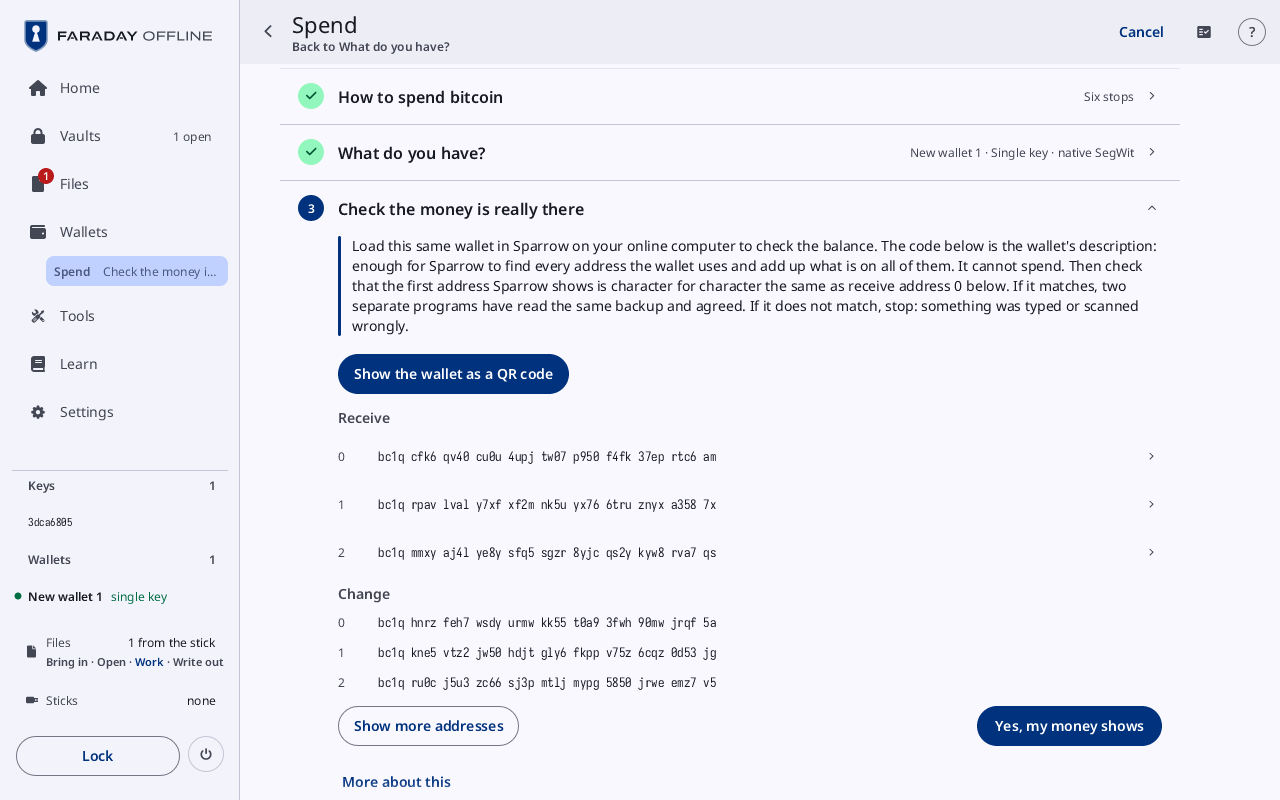
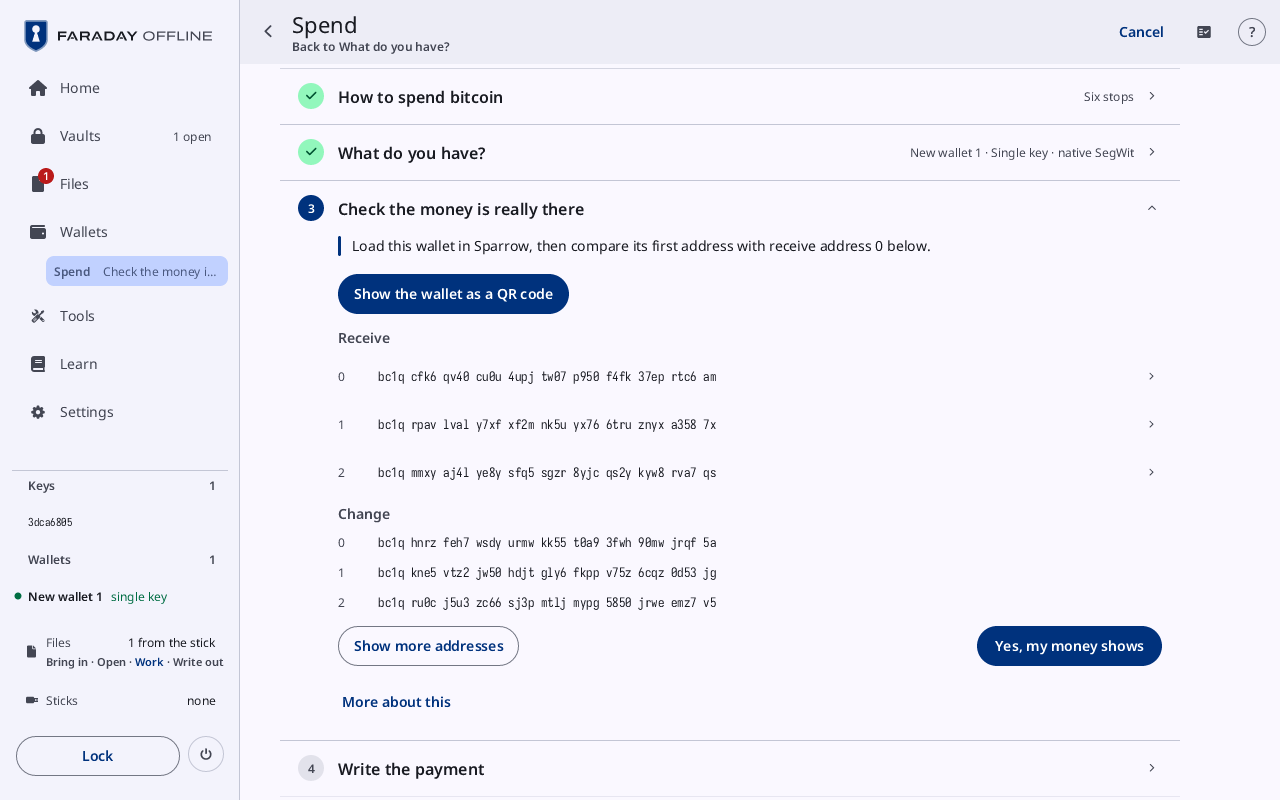
Spend from a backup: each card's lead is the one line a person needs to act on (what to press, in Sparrow or here); the explanation each lead carried is under More about this. The first page, the desktop copy's testing line, Check, Write, the transaction id, Sign, Send and the nonce, path and collec
Reviewed: crypto.costs-said
Reviewed: crypto.kept-values
Reviewed: keys.child-vault-only
Reviewed: keys.secret-files
Reviewed: strings.medium
Reviewed: strings.no-explanation
Reviewed: strings.plain
Reviewed: structure.areas-private
Reviewed: tree.image-metadata
Claude-Session: https://claude.ai/code/session_01Nu65eNvyTq6CBbdgrbCrfM

diff --git a/faraday/faraday-strings/src/en.rs b/faraday/faraday-strings/src/en.rs
@@ -2526,40 +2526,56 @@ strings! {
     /// Text in `lead`.
     spend_backup_six_stops_three: "Six stops, three on this computer and three on an online one. Nothing moves until the last.",
     /// Text in `lead`. `{}`: `app.medium.noun()`.
-    spend_backup_lead_desktop_copy: "This is the desktop copy of Faraday, which runs on an ordinary computer that has been online. It is for testing. For real money, start a computer from the Faraday {}.",
+    spend_backup_lead_desktop_copy: "The desktop copy of Faraday is for testing. For real money, start a computer from the Faraday {}.",
     /// Text in `lead`. `{}`: `app.medium.noun()`.
-    spend_backup_lead_running_offline: "This computer is running Faraday from the {}. It has no network, and it forgets everything when it is switched off.",
+    spend_backup_lead_running_offline: "This computer runs Faraday from the {}, with no network.",
     /// Text in `lead`.
-    spend_backup_scan_or_type: "Scan or type everything in the envelope, one thing at a time, in any order. Faraday works out the wallet from it.",
+    spend_backup_scan_or_type: "Scan or type everything in the envelope, in any order.",
     /// Text in `lead`.
-    spend_backup_in_sparrow_file_new: "In Sparrow: File, New Wallet, then scan the wallet QR. Its first address is receive address 0 here.",
+    spend_backup_in_sparrow_file_new: "In Sparrow: File, New Wallet, then scan the wallet QR.",
     /// Text in `lead`.
-    spend_backup_in_sparrow_s: "In Sparrow's Send tab: the address, the amount and a fee. Then Create Transaction, Finalize Transaction for Signing and Show QR.",
+    spend_backup_in_sparrow_s: "On the online computer, in Sparrow's Send tab: the address, the amount and a fee. Then Create Transaction, Finalize Transaction for Signing and Show QR.",
     /// Text in `lead`.
-    spend_backup_words_alone: "Words alone do not say which kind of wallet they made. Faraday made the most common kind from them. Open it in the wallet on the online computer, such as Sparrow, and look at its balance. If no money shows, Faraday makes the next kind.",
+    spend_backup_words_alone: "Open this in Sparrow and look at its balance. If no money shows, press No money shows.",
     /// Text in `lead`.
-    spend_backup_load_this_same: "Load this same wallet in Sparrow on your online computer to check the balance. The code below is the wallet's description: enough for Sparrow to find every address the wallet uses and add up what is on all of them. It cannot spend. Then check that the first address Sparrow shows is character for character the same as receive address 0 below. If it matches, two separate programs have read the same backup and agreed. If it does not match, stop: something was typed or scanned wrongly.",
-    /// Text in `lead`.
-    spend_backup_this_part_happens: "This part happens on the online computer. In Sparrow, open the wallet's Send tab, enter the address to pay and the amount, and choose a fee. Press Create Transaction, then Finalize Transaction for Signing, then Show QR: an animated code, which is what Faraday reads. Sparrow can also save it as a .psbt file.",
+    spend_backup_load_this_same: "Load this wallet in Sparrow, then compare its first address with receive address 0 below.",
     /// Text in `lead`. `{}`: `app.medium.a()`, `app.medium.a()`, `app.medium.noun()`.
     spend_backup_two_ways_scanning: "Two ways. Scanning is the simpler: nothing has to lock. Press Scan and hold Sparrow's QR code up to this computer's camera; an animation is read as it loops. Or save the .psbt onto {} and copy it in. Faraday reads {} only while no vault or key is open, so with one open it locks first: it seals the vault, forgets the keys and starts again. Copy the PSBT in, remove the {}, and unlock with the same passphrase. This tab comes back on this page.",
     /// Text in `lead`. `{}`: `app.medium.noun()`, `app.medium.a()`, `app.medium.noun()`, `app.medium.noun()`.
     spend_backup_lock_faraday: "Lock Faraday. The vault is sealed again with the keys inside it, and none is left in memory. If a file you still need waits for the {}, plug {} in and the {} visit writes it. Then switch off, take the {} out, and put it back with the papers.",
     /// Text in `lead`.
     /// Text in `lead`.
+    spend_backup_lead_nonces: "Add the others' nonces, or go first and share this device's.",
+    /// Text in `lead`.
+    spend_backup_lead_path: "Each path lists the keys it needs and how long it waits.",
+    /// Text in `lead`.
+    spend_backup_lead_collect: "Scan or copy in each cosigner's signed copy.",
+    /// Text in `more`.
+    spend_backup_more_words_kind: "Words alone do not say which kind of wallet they made. Faraday made the most common kind from them. If no money shows, Faraday makes the next kind.",
+    /// Text in `more`.
+    spend_backup_more_description: "The code is the wallet's description: enough for Sparrow to find every address the wallet uses and add up what is on all of them. It cannot spend. If the first address matches, two separate programs have read the same backup and agreed. If it does not match, stop: something was typed or scanned wrongly.",
+    /// Text in `more`.
+    spend_backup_more_psbt_file: "Sparrow can also save the transaction as a .psbt file.",
+    /// Text in `more`.
+    spend_backup_more_follow_id: "After sending, the id is how to follow the transaction.",
+    /// Text in `more`.
+    spend_backup_more_other_signatures: "For a wallet that needs signatures from elsewhere, the next card lists who still has to sign and takes their signed copies; each is checked against its key and this transaction before it counts.",
+    /// Text in `more`.
+    spend_backup_more_safe_to_hand: "The finished transaction is what the network accepts. It is safe to hand to anyone: nobody can change where the money goes without breaking the signatures, and a broken transaction is rejected, not redirected.",
+    /// Text in `lead`.
     spend_backup_read_the_summary: "What leaves, what comes back and the fee",
     /// Text in `lead`.
     spend_backup_this_opens_once: "This opens once the transaction is here.",
     /// Text in `lead`.
-    spend_backup_lead_write_down_id: "Write down the first and last few characters of this id. Sparrow shows the same id for the transaction it wrote; after sending, the id is how you follow it.",
+    spend_backup_lead_write_down_id: "Write down the first and last few characters of this id; Sparrow shows the same id.",
     /// Text in `lead`.
     spend_backup_lead_every_key: "Every key that signs is listed. A key not here yet comes from its own place: Scan a key reads its SeedQR, or its words typed instead, and a vault that holds it unlocks. Faraday works out which key it is. Each is checked against the wallet, so a key from another wallet is refused. A key held by someone else does not have to come here at all: they sign the same PSBT on their own device, and their signed copy is collected after this device signs.",
     /// Text in `lead`.
     spend_backup_lead_one_seed: "One seed at a time: put its words in, add it, and the count goes up. Order does not matter and the same seed twice does no harm. Each list is checked against the wallet's own keys, so one belonging to a different wallet is refused. A seed kept as a QR code beside the words does not have to be typed: scan it. If that backup has a separate passphrase, type it in the passphrase box before adding.",
     /// Text in `lead`.
-    spend_backup_signing_adds: "Signing adds the signature of every key loaded here. For a wallet that needs signatures from elsewhere, the next card lists who still has to sign and takes their signed copies; each is checked against its key and this transaction before it counts.",
+    spend_backup_signing_adds: "Signing adds the signature of every key loaded here.",
     /// Text in `lead`. `{}`: `app.medium.a()`.
-    spend_backup_the_finished: "The finished transaction is what the network accepts. Show the signed PSBT as a QR code; in Sparrow, on the same transaction, press Scan QR and hold it up to the webcam, then Broadcast Transaction. Or carry the finished transaction, which waits in Files, on {}. It is safe to hand to anyone: nobody can change where the money goes without breaking the signatures, and a broken transaction is rejected, not redirected.",
+    spend_backup_the_finished: "Show the signed PSBT as a QR code; in Sparrow, on the same transaction, press Scan QR, then Broadcast Transaction. Or carry the finished transaction, in Files, on {}.",
     /// Text in `more`.
     spend_backup_anyone_who_reads: "Anyone who reads the words can spend the money from anywhere in the world, and it cannot be reversed. Where a wallet needs several lists, anyone with enough of them can. Treat every list as if it were the only one. No legitimate bitcoin company will ever ask for them: not a support line, not someone helping you, not an AI.",
     /// Text in `more`.

diff --git a/faraday/faraday-core/src/spend_backup/text.rs b/faraday/faraday-core/src/spend_backup/text.rs
@@ -169,14 +169,11 @@ pub fn lead(app: &View, id: CardId) -> String {
         CardId::Page(page::CHECK) if app.spend_backup.state.from_card => {
             EN.spend_backup_in_sparrow_file_new
         }
-        CardId::Page(page::WRITE) if app.spend_backup.state.from_card => {
-            EN.spend_backup_in_sparrow_s
-        }
+        CardId::Page(page::WRITE) => EN.spend_backup_in_sparrow_s,
         CardId::Page(page::CHECK) if app.spend_backup_guess().is_some() => {
             EN.spend_backup_words_alone
         }
         CardId::Page(page::CHECK) => EN.spend_backup_load_this_same,
-        CardId::Page(page::WRITE) => EN.spend_backup_this_part_happens,
         // Bring and Put everything away say their how in More about this.
         CardId::Page(_) => return String::new(),
         CardId::Later(_) => EN.spend_backup_this_opens_once,
@@ -188,19 +185,26 @@ pub fn lead(app: &View, id: CardId) -> String {
         CardId::Step(step::FINISH) => {
             return fill(EN.spend_backup_the_finished, &[app.medium.a()]);
         }
-        CardId::Step(n) => {
-            let s = app.wallets.spend();
-            let kind = s
-                .and_then(|s| s.wallet)
-                .and_then(|w| app.session.wallets.get(w))
-                .map(|w| Kind::of(w.policy()));
-            return match s {
-                Some(s) => guide::spend(n, kind, app.spend_needed(), s, app.medium),
-                None => String::new(),
-            };
-        }
+        CardId::Step(step::NONCES) => EN.spend_backup_lead_nonces,
+        CardId::Step(step::PATH) => EN.spend_backup_lead_path,
+        CardId::Step(step::COLLECT) => EN.spend_backup_lead_collect,
+        CardId::Step(n) => return walk(app, n),
     };
     s.to_string()
+}
+
+/// The walk-through text of a step (`guide::spend`), as More about this
+/// holds it where the card's lead is one line.
+fn walk(app: &View, n: u8) -> String {
+    let s = app.wallets.spend();
+    let kind = s
+        .and_then(|s| s.wallet)
+        .and_then(|w| app.session.wallets.get(w))
+        .map(|w| Kind::of(w.policy()));
+    match s {
+        Some(s) => guide::spend(n, kind, app.spend_needed(), s, app.medium),
+        None => String::new(),
+    }
 }
 
 /// The spend's wallet needs more keys than are here.
@@ -255,18 +259,40 @@ pub fn more(app: &View, id: CardId) -> Vec<String> {
             ]));
             return paras;
         }
-        CardId::Page(page::CHECK) => &[
-            EN.spend_backup_in_sparrow_file,
-            EN.spend_backup_more_trusted_software,
-            EN.spend_backup_faraday_can,
-            EN.spend_backup_on_a_phone_you,
+        CardId::Page(page::CHECK) => {
+            let mut paras = Vec::new();
+            if app.spend_backup_guess().is_some() {
+                paras.push(EN.spend_backup_more_words_kind.to_string());
+            } else if !app.spend_backup.state.from_card {
+                paras.push(EN.spend_backup_more_description.to_string());
+            }
+            paras.extend(strings(&[
+                EN.spend_backup_in_sparrow_file,
+                EN.spend_backup_more_trusted_software,
+                EN.spend_backup_faraday_can,
+                EN.spend_backup_on_a_phone_you,
+            ]));
+            return paras;
+        }
+        CardId::Page(page::WRITE) => &[
+            EN.spend_backup_more_psbt_file,
+            EN.spend_backup_paying_into,
+            EN.spend_backup_faraday_locks,
         ],
-        CardId::Page(page::WRITE) => &[EN.spend_backup_paying_into, EN.spend_backup_faraday_locks],
+        CardId::Step(step::TXID) => &[EN.spend_backup_more_follow_id],
         CardId::Step(step::SIGN) => &[
+            EN.spend_backup_more_other_signatures,
             EN.spend_backup_if_the_envelope,
             EN.spend_backup_more_faraday_enough,
         ],
+        CardId::Step(step::NONCES | step::PATH | step::COLLECT) => {
+            if let CardId::Step(n) = id {
+                return vec![walk(app, n)];
+            }
+            &[]
+        }
         CardId::Step(step::FINISH) => &[
+            EN.spend_backup_more_safe_to_hand,
             EN.spend_backup_any_of_these,
             EN.spend_backup_more_check_id,
             EN.spend_backup_the_first_confirmation,

diff --git a/docs/SPEND-FROM-BACKUP.md b/docs/SPEND-FROM-BACKUP.md
@@ -144,12 +144,10 @@ vault's passphrase.
 Not a page of its own (F103): **Start** opens page 3, whose lead and
 More begin with these until something comes in.
 
-**Lead, on the stick:** This computer is running Faraday from the stick.
-It has no network, and it forgets everything when it is switched off.
+**Lead, on the stick:** This computer runs Faraday from the stick, with no network.
 
-**Lead, on the desktop app (`app.online`):** This is the desktop copy of
-Faraday, which runs on an ordinary computer that has been online. It is
-for testing. For real money, start a computer from the Faraday stick.
+**Lead, on the desktop app (`app.online`):** The desktop copy of Faraday
+is for testing. For real money, start a computer from the Faraday stick.
 (The owner's answer 3: nothing is stopped.)
 
 **More (how to start a computer from the stick):**
@@ -166,8 +164,7 @@ for testing. For real money, start a computer from the Faraday stick.
 
 ### 3 · What do you have? (`docs/history/SCAN-TO-SIGN.md` §4, 2026-10-11)
 
-**Lead:** Scan or type everything in the envelope, one thing at a time,
-in any order. Faraday works out the wallet from it.
+**Lead:** Scan or type everything in the envelope, in any order.
 
 The card, top to bottom:
 
@@ -277,15 +274,12 @@ camera all happen on *What do you have?*.
 
 ### 5 · Check the money is really there
 
-**Lead:** Load this same wallet in Sparrow on your
-online computer to check the balance. The code below is the wallet's
-description: enough for Sparrow to find every address the wallet uses and
-add up what is on all of them. It cannot spend; that still needs the keys.
-
-Then check that the first address Sparrow shows is character for character
-the same as address 1 below. If it matches, two separate programs have
-read the same backup and agreed, and the balance Sparrow shows is the real
-one. If it does not match, stop: something was typed or scanned wrongly.
+**Lead:** Load this wallet in Sparrow, then compare its first address
+with receive address 0 below. **More about this** says the code is the
+wallet's description, enough for Sparrow to find every address and add up
+what is on them, and that it cannot spend; that a matching first address
+means two separate programs read the same backup; and that a mismatch
+means stop, something was typed or scanned wrongly.
 
 *(Controls: Show the wallet as a QR; the first three receive and three
 change addresses; Show more; **Yes, my money shows**, which marks the
@@ -295,9 +289,9 @@ wallet checked this power-on.)*
 out from seeds alone (one seed and That's everything, the Loaded view's
 Spend as a single-key wallet, or seeds shaped without a description).
 The title is **Check the money is there, on the online computer**; the
-lead says words alone do not say which kind of wallet they made, to open
-it in the wallet on the online computer and look at its balance, and
-that Faraday makes the next kind if no money shows. Under it: the ways
+lead says to open it in Sparrow, look at its balance and press **No money
+shows** if none does; **More about this** says words alone do not say which
+kind of wallet they made and that Faraday makes the next kind. Under it: the ways
 tried, each `{kind} · no money`, struck; the line `Trying: {kind}, {no
 passphrase | with a passphrase} · {k} of {total}`; the wallet QR with
 "Open this in the wallet on the online computer" ("Open this one on the
@@ -337,13 +331,10 @@ description or a vault was not guessed: its page is as above.
 
 ### 6 · Write the payment
 
-**Lead:** This part happens on the online computer. In Sparrow, open the
-wallet's Send tab, enter the address to pay and the amount, and choose a
-fee. Press **Create Transaction**, then **Finalize Transaction for
-Signing**, then **Show QR**: an animated code, which is what Faraday reads.
-Sparrow can also save it as a `.psbt` file. (Button names as Sparrow's QR
-guide gives them; the signed copy goes back with **Scan QR** and
-**Broadcast Transaction**.)
+**Lead:** On the online computer, in Sparrow's Send tab: the address, the
+amount and a fee. Then Create Transaction, Finalize Transaction for Signing
+and Show QR. **More about this** adds that Sparrow can also save the
+transaction as a `.psbt` file.
 
 **More:**
 - Paying into an exchange: the exchange gives you a deposit address for
@@ -375,9 +366,9 @@ The page closes when a spend is loaded.)*
 **Lead:** What leaves, what comes back and the fee. Under it, a way to
 Learn's **Verifying**, which says why they are read before signing.
 
-Then the transaction id: write down its first and last few characters.
-Sparrow shows the same id for the transaction it wrote; after sending, the
-id is how you follow it.
+Then the transaction id, whose lead is: write down its first and last few
+characters; Sparrow shows the same id. **More about this** says that after
+sending, the id is how to follow the transaction.
 
 *(Controls: Wallets' Transaction and Txid steps, as they are.)*
 
@@ -396,10 +387,10 @@ online device.
 
 ### 10 · Sign it
 
-**Lead:** Signing adds the signature of every key loaded here. For a
-wallet that needs signatures from elsewhere, the page lists who still has
-to sign and takes their signed copies by scan or from Files; each is
-checked against its key and this transaction before it counts.
+**Lead:** Signing adds the signature of every key loaded here. **More
+about this** says that for a wallet that needs signatures from elsewhere
+the next card lists who still has to sign and takes their signed copies,
+each checked against its key and this transaction before it counts.
 
 **More:** If the envelope held a
 hardware wallet that came with the papers and looks untouched, you can
@@ -410,15 +401,12 @@ Faraday on its own is enough to do the whole job.
 
 ### 11 · Send it
 
-**Lead:** The finished
-transaction is what the network accepts. Show it as a QR and scan it into
-Sparrow, which broadcasts it. Or put it in the Outbox and carry it on a
-stick (the stick visit writes it when Faraday next locks).
-
-The finished transaction is safe to hand to anyone. Nobody can change
-where the money goes without breaking the signatures, and a broken
-transaction is rejected, not redirected. If you would like help with this
-last step, this is the part you can safely hand over.
+**Lead:** Show the signed PSBT as a QR code; in Sparrow, on the same
+transaction, press Scan QR, then Broadcast Transaction. Or carry the
+finished transaction, in Files, on the stick. **More about this** says the
+finished transaction is what the network accepts and is safe to hand to
+anyone: nobody can change where the money goes without breaking the
+signatures, and a broken transaction is rejected, not redirected.
 
 **More:**
 - Any of these sends it: Sparrow (open the transaction from the QR, the
@@ -493,8 +481,8 @@ are one page, **Write the payment in Sparrow**:
 
 | Page | Lead | Controls |
 |---|---|---|
-| Load the wallet in Sparrow | In Sparrow: File, New Wallet, then scan the wallet QR. Its first address is receive address 0 here. | **I have the PSBT from Sparrow ready: Scan it** (the camera; once the PSBT reads, its review); **Show the wallet QR** (the descriptor, full text under it); receive address 0; **It is loaded**. Done already for a wallet checked this power-on. |
-| Write the payment in Sparrow | In Sparrow's Send tab: the address, the amount and a fee. Then Create Transaction, Finalize Transaction for Signing and Show QR. | **Scan the PSBT**; **On a stick** (the stick round trip); this wallet's PSBTs in Files. Done once a spend is loaded. |
+| Load the wallet in Sparrow | In Sparrow: File, New Wallet, then scan the wallet QR. | **I have the PSBT from Sparrow ready: Scan it** (the camera; once the PSBT reads, its review); **Show the wallet QR** (the descriptor, full text under it); receive address 0; **It is loaded**. Done already for a wallet checked this power-on. |
+| Write the payment in Sparrow | On the online computer, in Sparrow's Send tab: the address, the amount and a fee. Then Create Transaction, Finalize Transaction for Signing and Show QR. | **Scan the PSBT**; **On a stick** (the stick round trip); this wallet's PSBTs in Files. Done once a spend is loaded. |
 
 Then the spend's steps as they are. **Who signs**, with fewer keys here
 than sign, offers **Scan a key**, its Unlock buttons and **Collect a

diff --git a/docs/DESIGN.md b/docs/DESIGN.md
@@ -720,7 +720,7 @@ is `docs/WALLETS.md` and the Spend tab `docs/SPEND-FROM-BACKUP.md`.
 | `WalletsStart` | The Wallets tab's first page: the wallets loaded, the keys without a wallet, and every way in by what the person has. | Page |
 | `Wallets` | The wallets as a list and the chosen wallet's card: its name and shape, a `tr()` tree's key path line under the shape (the danger line, in the error colour, for a key not of the wallet; F132), the backup line, the signatures possible here, **Spend paths** (fact rows, §4.11) for a wallet with a relative wait, **At a glance** (§4.16), the first receive address and the card's actions (`docs/WALLETS.md`). | Page |
 | `Spend` | Signing a transaction: the review (what it sends, to whom, the fee, change, the txid, warnings), the signers, **Sign with** (§4.4), and the signed PSBT and finished transaction. | Step flow |
-| `SpendBackup` | The Spend tab: spending from a backup, step by step (`docs/SPEND-FROM-BACKUP.md`). The first page opens on the step list, and Bring the transaction here, Who signs and Put everything away open on their controls, with no paragraph or note, and Read the transaction on one label line; what a paragraph said is under More about this. | Step flow |
+| `SpendBackup` | The Spend tab: spending from a backup, step by step (`docs/SPEND-FROM-BACKUP.md`). The first page opens on the step list, and Bring the transaction here, Who signs and Put everything away open on their controls, with no paragraph or note, and Read the transaction on one label line; every other card's lead is one line (the action to take, in Sparrow or here), and what its other sentences said is under More about this. | Step flow |
 | `Files` | The Inbox and the Outbox: a row per file with its kind, size and ⋮, and what each file can do (Sign, Decode, Nonce check, Load the wallet, Unlock, Import into the vault). While a stick is open, a checkbox on each row for writing, and the stick pane: what is on the stick, ticked to bring in; beside the lists from expanded windows up, below that as primary tabs **In Faraday · On {stick}** (F235). | Page |
 | `Entry` | Add a key: a seed typed or scanned (§4.3). | Page |
 | `Backup` | Backing up a wallet: the plan, the board (§4.17), each copy made and checked. | Step flow |
